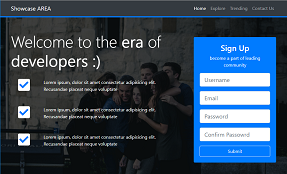
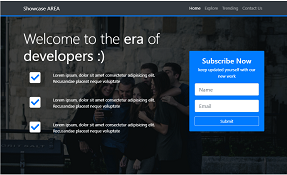
showcase: Updated sign up form to Subscribe

diff --git a/showcase_area/index.html b/showcase_area/index.html
@@ -94,15 +94,15 @@
             <div class="col-lg-4 d-none d-lg-block col-md-7 m-auto">
               <div class="card card-form bg-primary">
                 <div class="card-body text-center">
-                  <h3 class="d-block">Sign Up</h3>
-                  <p>become a part of leading community</p>
+                  <h3 class="d-block">Subscribe Now</h3>
+                  <p>keep updated yourself with our new work</p>
                   <form>
                     <div class="form-group">
                       <input
                         type="text"
                         name="name"
                         class="form-control form-control-lg"
-                        placeholder="Username"
+                        placeholder="Name"
                       />
                     </div>
                     <div class="form-group">
@@ -111,22 +111,6 @@
                         name="name"
                         class="form-control form-control-lg"
                         placeholder="Email"
-                      />
-                    </div>
-                    <div class="form-group">
-                      <input
-                        type="password"
-                        name="name"
-                        class="form-control form-control-lg"
-                        placeholder="Password"
-                      />
-                    </div>
-                    <div class="form-group">
-                      <input
-                        type="password"
-                        name="name"
-                        class="form-control form-control-lg"
-                        placeholder="Confirm Passowrd"
                       />
                     </div>
                     <input
@@ -147,7 +131,7 @@
               data-toggle="modal"
               data-target="#signupmodal"
             >
-              Sign Up
+              Subscribe
             </button>
             <div
               class="modal fade"
@@ -169,15 +153,15 @@
                       >
                         <span aria-hidden="true">&times;</span>
                       </button>
-                      <h3 class="d-block">Sign Up</h3>
-                      <p>become a part of leading community</p>
-                      <form action="www.google.com">
+                      <h3 class="d-block">Subscribe Now</h3>
+                      <p>keep updated yourself with our new work</p>
+                      <form action="">
                         <div class="form-group">
                           <input
                             type="text"
                             name="name"
                             class="form-control form-control-lg"
-                            placeholder="Username"
+                            placeholder="Name"
                           />
                         </div>
                         <div class="form-group">
@@ -186,22 +170,6 @@
                             name="name"
                             class="form-control form-control-lg"
                             placeholder="Email"
-                          />
-                        </div>
-                        <div class="form-group">
-                          <input
-                            type="password"
-                            name="name"
-                            class="form-control form-control-lg"
-                            placeholder="Password"
-                          />
-                        </div>
-                        <div class="form-group">
-                          <input
-                            type="password"
-                            name="name"
-                            class="form-control form-control-lg"
-                            placeholder="Confirm Passowrd"
                           />
                         </div>
                         <input

diff --git a/home.html b/home.html
@@ -48,7 +48,7 @@
               <h5 class="card-title">Showcase AREA</h5>
               <p class="card-text">
                 A single page theme for presenting something brief. It contains
-                a sign up form, explore section, trending section and contact
+                a subscribe form, explore section, trending section and contact
                 section.
               </p>
             </div>
